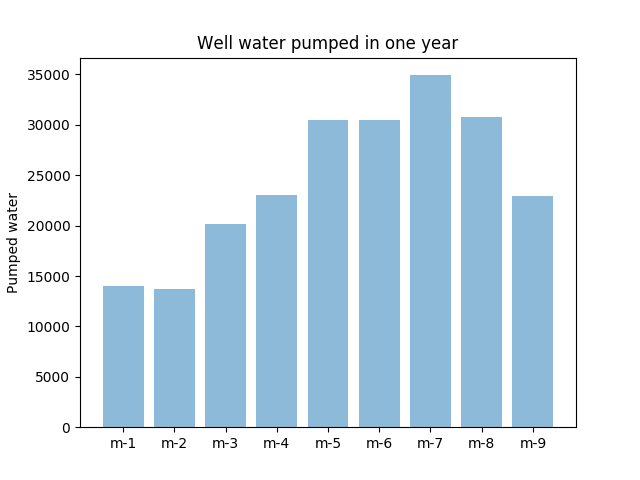
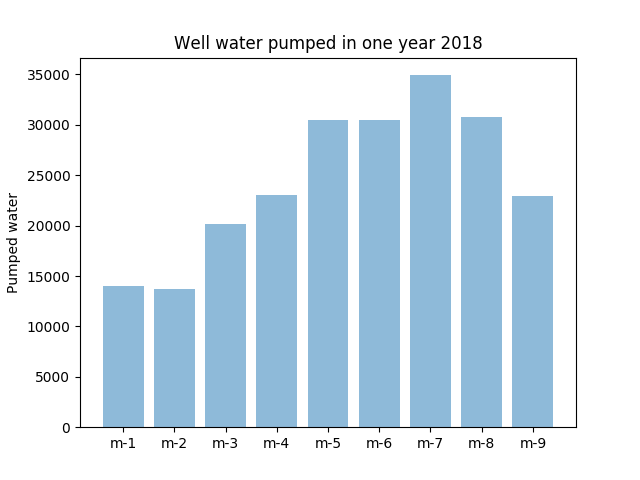
update label

Changed region(s): [[0.2812, 0.0625, 0.75, 0.125]]

diff --git a/vis/water_monthly.py b/vis/water_monthly.py
@@ -23,6 +23,6 @@ y_pos = np.arange(month_count)
 plt.bar(y_pos, cumulative_months, align='center', alpha=0.5)
 plt.xticks(y_pos, months_label)
 plt.ylabel('Pumped water')
-plt.title('Well water pumped in one year')
+plt.title('Well water pumped in one year 2018')
 
 plt.show()
